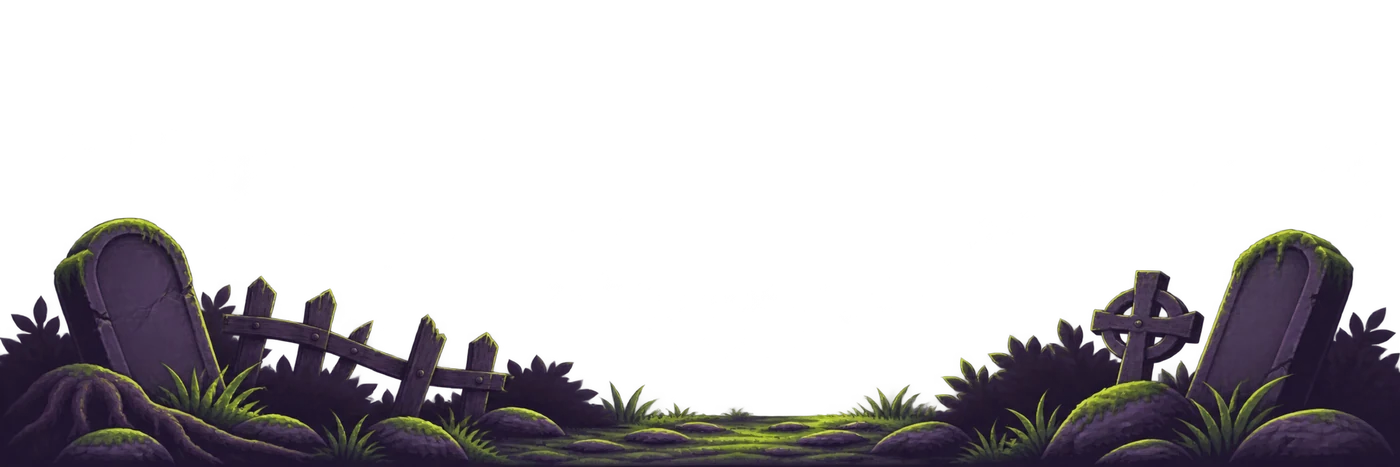
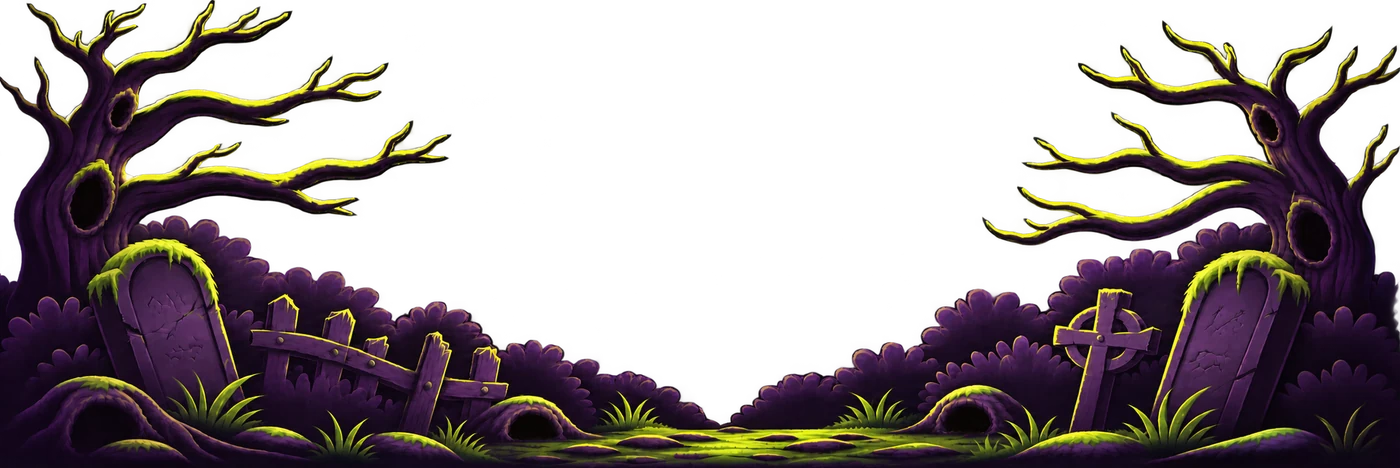
Хэллоуин: новая кайма кладбища, злые глаза в дуплах, кусте и норах, рука у креста, пауки спускаются на паутине в норы, вороны на деревьях, ведьма у луны [release]
Claude-Session: https://claude.ai/code/session_01XuSLBFkwx6ZNfMQekxD9ac

diff --git a/android/app/src/main/java/com/dasein/poryadok/ui/common/HalloweenDecor.kt b/android/app/src/main/java/com/dasein/poryadok/ui/common/HalloweenDecor.kt
@@ -73,6 +73,16 @@ object HalloweenAssets {
     var spiderSide: List<ImageBitmap> = emptyList(); private set
     var spiderTop: List<ImageBitmap> = emptyList(); private set
     var spiderPeek: List<ImageBitmap> = emptyList(); private set
+    /** Злые глаза: [вид][открыты, прикрыты, почти закрыты, закрыты]. */
+    var evil: List<List<ImageBitmap>> = emptyList(); private set
+    /** Ворон: сидит, каркает, летит, взлетает, садится (смотрит вправо, лапы — внизу по центру кадра). */
+    var crowIdle: List<ImageBitmap> = emptyList(); private set
+    var crowCaw: List<ImageBitmap> = emptyList(); private set
+    var crowFly: List<ImageBitmap> = emptyList(); private set
+    var crowUp: List<ImageBitmap> = emptyList(); private set
+    var crowLand: List<ImageBitmap> = emptyList(); private set
+    /** Ведьма на метле: 0–3 полёт, 4–5 машет, 6–7 с котом. */
+    var witch: List<ImageBitmap> = emptyList(); private set
 
     fun load(ctx: android.content.Context) {
         if (ready.value) return
@@ -84,7 +94,11 @@ object HalloweenAssets {
         hand = many("hand", 6); ghost = many("ghost", 6); ghostling = many("ghostling", 4)
         leaves = many("fall_leaf", 6); fallBats = many("fall_bat", 3); stars = many("fall_star", 3)
         caps = many("cap", 8); spiderSide = many("spider_side", 4); spiderTop = many("spider_top", 4); spiderPeek = many("spider_peek", 3)
-        ready.value = near != null && batHang.size == 4 && batFly.size == 4 && eyes.isNotEmpty() && hand.size == 6 && ghost.size == 6
+        evil = (0 until 5).map { k -> (0 until 4).mapNotNull { one("evil_${k}_$it") } }.filter { it.size == 4 }
+        crowIdle = many("crow_idle", 4); crowCaw = many("crow_caw", 4); crowFly = many("crow_fly", 4); crowUp = many("crow_up", 4); crowLand = many("crow_land", 4)
+        witch = many("witch", 8)
+        ready.value = near != null && batHang.size == 4 && batFly.size == 4 && evil.isNotEmpty() && hand.size == 6 && ghost.size == 6 &&
+            spiderTop.size == 4 && spiderSide.size == 4 && spiderPeek.size == 3 && crowFly.size == 4 && crowIdle.size == 4 && crowUp.size == 4 && crowLand.size == 4 && crowCaw.size == 4 && witch.size == 8
     }
 }
 
@@ -109,9 +123,13 @@ private fun DrawScope.fogBand(tex: ImageBitmap?, y: Float, bandH: Float, speed: 
 private class Firefly(val x: Float, val y: Float, val sp: Float, val ph: Float, val gold: Boolean)
 private val FIREFLIES = Random(3110).let { r -> List(14) { Firefly(r.nextFloat(), .25f + r.nextFloat() * .65f, .3f + r.nextFloat() * .5f, r.nextFloat() * 6.28f, it % 4 == 0) } }
 
-/** Где на кайме кусты (глаза снизу) и кроны (глаза сверху), в долях картинки каймы. */
-private val BUSH_EYES = listOf(.155f to .70f, .40f to .80f, .74f to .74f, .965f to .69f)
-private val CROWN_EYES = listOf(.13f to .16f, .89f to .13f)
+/** Где на нижней кайме злые глаза: дупла деревьев, куст справа (центр, доли картинки каймы) и ширина глаз (доли экрана). */
+private val TREE_EYES = listOf(Triple(.089f, .225f, .026f), Triple(.061f, .435f, .032f), Triple(.903f, .267f, .026f), Triple(.935f, .487f, .032f))
+private val BUSH_EYES = listOf(Triple(.952f, .739f, .042f), Triple(.955f, .859f, .042f))
+/** Норы в земле нижней каймы: сюда спускаются пауки, внутри потом горят глаза. */
+private val BURROWS = listOf(.074f to .915f, .381f to .915f, .6875f to .892f)
+/** Ветки деревьев нижней каймы, на которых сидят вороны (верх ветки). */
+private val CROW_PERCHES = listOf(.18f to .214f, .24f to .173f, .27f to .329f, .77f to .338f, .83f to .179f, .86f to .342f)
 
 /** Куда на ветках верхней каймы садятся летучие мыши (низ ветки), в долях картинки. */
 private val PERCHES = listOf(.23f to .14f, .315f to .135f, .215f to .34f, .30f to .32f, .57f to .215f, .645f to .225f, .78f to .315f, .86f to .317f)
@@ -167,6 +185,7 @@ fun DrawScope.halloweenScene(t: Float, dark: Boolean) {
     }
     val as0 = HalloweenAssets
     if (!as0.ready.value) return
+    if (Halloween.witch.value) witchFlight(t, w, h, mc, mr)
     val fogOn = Halloween.fog.value
     val lav = Color(0xFFD8C6F0)
     // Лёгкий туман под плашками посередине экрана.
@@ -175,11 +194,11 @@ fun DrawScope.halloweenScene(t: Float, dark: Boolean) {
     val bh = w / 3f; val by = h - bh
     as0.far?.let { img(it, 0f, by, w, bh, alpha = .95f) }
     if (fogOn) {
-        fogBand(as0.fog1, by + bh * .38f, bh * .5f, 9f, t, lav.copy(alpha = if (dark) .55f else .6f))
-        fogBand(as0.fog2, by + bh * .55f, bh * .35f, 16f, t, LIME.copy(alpha = .22f))
+        fogBand(as0.fog1, by + bh * .4f, bh * .45f, 9f, t, lav.copy(alpha = if (dark) .5f else .55f))
+        fogBand(as0.fog2, by + bh * .55f, bh * .35f, 16f, t, LIME.copy(alpha = .2f))
     }
     as0.near?.let { img(it, 0f, by, w, bh) }
-    // Рука вырывается из земли у могилы, машет и уходит обратно.
+    // Рука вырывается из земли у креста справа, машет и уходит обратно.
     if (Halloween.hand.value) {
         val local = (t + 8f) % 26f
         val f = when {
@@ -189,37 +208,192 @@ fun DrawScope.halloweenScene(t: Float, dark: Boolean) {
             else -> 0
         }
         val hb = as0.hand[f]
-        val hh = bh * .34f; val hw = hh * hb.width / hb.height
-        img(hb, w * .2f - hw / 2f, by + bh * .955f - hh, hw, hh)
+        val hh = bh * .3f; val hw = hh * hb.width / hb.height
+        img(hb, w * .8f - hw / 2f, by + bh * .99f - hh, hw, hh)
     }
-    if (fogOn) fogBand(as0.fog1, by + bh * .78f, bh * .3f, 22f, t, lav.copy(alpha = .22f))
-    // Моргающие красные глаза: в кустах кладбища и в кронах деревьев.
+    // Злые глаза в дуплах и в кусте: каждая пара моргает в своём ритме, иногда гаснет и загорается снова.
     if (Halloween.eyes.value) {
-        BUSH_EYES.forEachIndexed { i, (fx, fy) -> eyesAt(i, t, w * fx, by + bh * fy, w * .085f) }
+        TREE_EYES.forEachIndexed { i, (fx, fy, ew) -> evilEyes(i, t, w * fx, by + bh * fy, w * ew, roam = true) }
+        BUSH_EYES.forEachIndexed { i, (fx, fy, ew) -> evilEyes(i + 4, t, w * fx, by + bh * fy, w * ew, roam = true) }
     }
+    if (Halloween.crows.value) crows(t, w, by, bh)
+    if (fogOn) fogBand(as0.fog1, by + bh * .8f, bh * .3f, 22f, t, lav.copy(alpha = .2f))
     // Ветки сверху, на них летучие мыши.
     val th = w / 3f
     as0.top?.let { img(it, 0f, 0f, w, th) }
-    if (Halloween.eyes.value) CROWN_EYES.forEachIndexed { i, (fx, fy) -> eyesAt(i + 4, t, w * fx, th * fy + w * .03f, w * .07f) }
     if (Halloween.bats.value) bats(t, w, th)
+    // Пауки спускаются с веток на паутине по краю экрана в норы внизу.
+    if (Halloween.webs.value) webSpider(t, w, th, by, bh)
 }
 
-private fun DrawScope.eyesAt(i: Int, t: Float, cx: Float, bottom: Float, ew: Float) {
-    val set = HalloweenAssets.eyes.getOrNull(i % HalloweenAssets.eyes.size) ?: return
-    val vis = ((sin(t * .21f + i * 2.3f) + .35f) / .4f).coerceIn(0f, 1f)
-    if (vis <= 0f) return
-    val p = 3.4f + i * .9f
+/** Пара злых глаз с центром в ([cx], [cy]): моргает (иногда дважды), при [roam] — то гаснет, то загорается. */
+private fun DrawScope.evilEyes(i: Int, t: Float, cx: Float, cy: Float, ew: Float, roam: Boolean, alpha: Float = 1f) {
+    val all = HalloweenAssets.evil
+    if (all.isEmpty()) return
+    val set = all[i % all.size]
+    val vis = alpha * if (roam) ((sin(t * .19f + i * 2.3f) + .3f) / .35f).coerceIn(0f, 1f) else 1f
+    if (vis <= .01f) return
+    val p = 2.6f + (i * 1.37f) % 3.1f
     val ph = (t + i * 1.7f) % p
+    val dbl = (((t + i * 1.7f) / p).toInt() + i) % 3 == 0
+    fun blink(x: Float) = when { x < .06f -> 1; x < .12f -> 2; x < .2f -> 3; x < .26f -> 2; x < .32f -> 1; else -> 0 }
     val frame = when {
-        ph > p - .12f -> 1
-        ph > p - .24f -> 2
-        ph > p - .36f -> 1
+        ph < .32f -> blink(ph)
+        dbl && ph in .45f..0.77f -> blink(ph - .45f)
         else -> 0
     }
     val b = set[frame]
     val eh = ew * b.height / b.width
-    if (frame != 2) glow(EYE_RED, Offset(cx, bottom - eh * .5f), ew * .55f, .32f * vis)
-    img(b, cx - ew / 2f, bottom - eh, ew, eh, alpha = vis)
+    if (frame < 3) glow(EYE_RED, Offset(cx, cy), ew * .6f, .3f * vis * (1f - frame * .25f))
+    img(b, cx - ew / 2f, cy - eh / 2f, ew, eh, alpha = vis)
+}
+
+/** Ворона в стайке: где сидит, куда летит, когда взлетела. */
+private object Crows {
+    const val DUR = 3.2f
+    val at = intArrayOf(0, 3, 5)
+    val to = intArrayOf(-1, -1, -1)
+    val start = FloatArray(3)
+    val next = floatArrayOf(9f, 19f, 29f)
+    val rnd = Random(777)
+    fun step(t: Float) {
+        for (i in at.indices) {
+            if (to[i] >= 0 && (t < start[i] || t - start[i] >= DUR)) { at[i] = to[i]; to[i] = -1; next[i] = t + 9f + rnd.nextFloat() * 14f }
+            if (to[i] < 0 && t >= next[i]) {
+                val busy = at.toSet() + to.filter { it >= 0 }
+                val free = CROW_PERCHES.indices.filter { it !in busy }
+                if (free.isNotEmpty()) { to[i] = free[rnd.nextInt(free.size)]; start[i] = t }
+            }
+            if (t + 80f < next[i]) next[i] = t + 6f
+        }
+    }
+}
+
+/** Вороны на ветках деревьев нижней каймы: сидят, чистят перья, каркают; иногда перелетают на другую ветку или дерево. */
+private fun DrawScope.crows(t: Float, w: Float, by: Float, bh: Float) {
+    val a = HalloweenAssets
+    Crows.step(t)
+    val cw = w * .085f
+    fun perch(i: Int) = Offset(CROW_PERCHES[i].first * w, by + CROW_PERCHES[i].second * bh)
+    fun drawCrow(f: ImageBitmap, feet: Offset, faceLeft: Boolean) {
+        val x = feet.x - cw * .473f; val y = feet.y - cw * .925f
+        if (faceLeft) scale(-1f, 1f, Offset(feet.x, feet.y)) { img(f, x, y, cw, cw) } else img(f, x, y, cw, cw)
+    }
+    for (i in Crows.at.indices) {
+        val from = perch(Crows.at[i])
+        val dest = Crows.to[i]
+        if (dest < 0) {
+            // На левом дереве смотрит вправо, на правом — влево (к центру экрана).
+            val faceLeft = from.x > w / 2f
+            val local = (t + i * 4.3f) % 11f
+            val f = when {
+                local < 1.4f -> a.crowCaw[intArrayOf(0, 1, 2, 1, 2, 0)[(local / .24f).toInt().coerceIn(0, 5)]]
+                local in 5f..6.2f -> a.crowIdle[2]
+                local in 8f..8.8f -> a.crowIdle[1]
+                local in 9.6f..10f -> a.crowCaw[3]
+                else -> a.crowIdle[0]
+            }
+            drawCrow(f, from, faceLeft)
+            continue
+        }
+        val to = perch(dest)
+        val u = ((t - Crows.start[i]) / Crows.DUR).coerceIn(0f, 1f)
+        val left = to.x < from.x
+        when {
+            u < .14f -> drawCrow(a.crowUp[(u / .14f * 4).toInt().coerceIn(0, 3)], from, left)
+            u > .84f -> drawCrow(a.crowLand[((u - .84f) / .16f * 4).toInt().coerceIn(0, 3)], to, left)
+            else -> {
+                val s = ((u - .14f) / .7f).let { it * it * (3 - 2 * it) }
+                val c = Offset((from.x + to.x) / 2f, minOf(from.y, to.y) - bh * .35f)
+                val pos = Offset(
+                    (1 - s) * (1 - s) * from.x + 2 * (1 - s) * s * c.x + s * s * to.x,
+                    (1 - s) * (1 - s) * from.y + 2 * (1 - s) * s * c.y + s * s * to.y,
+                )
+                drawCrow(a.crowFly[(t * 9f).toInt() % 4], pos, left)
+            }
+        }
+    }
+}
+
+/**
+ * Паук на паутине: появляется на ветке верхней каймы (то слева, то справа), спускается по краю экрана до земли,
+ * ползёт в нору; в норе загораются красные глаза; потом паук выбирается и уползает за край экрана. Повторяется.
+ */
+private fun DrawScope.webSpider(t: Float, w: Float, th: Float, by: Float, bh: Float) {
+    val a = HalloweenAssets
+    val cycle = 40f
+    val n = ((t + 6f) / cycle).toInt()
+    val lt = (t + 6f) % cycle
+    val leftSide = n % 2 == 0
+    val rnd = Random(n * 31 + 7)
+    val bi = if (leftSide) (if (rnd.nextBoolean()) 0 else 1) else (if (rnd.nextBoolean()) 2 else 1)
+    val burrow = Offset(BURROWS[bi].first * w, by + BURROWS[bi].second * bh)
+    val sx = (if (leftSide) .06f else .95f) * w
+    val startY = th * .29f
+    val groundY = burrow.y - bh * .02f
+    val speed = w * .11f
+    val tw = 18.dp.toPx(); val tH = tw * a.spiderTop[0].height / a.spiderTop[0].width
+    val sw = 20.dp.toPx(); val sH = sw * a.spiderSide[0].height / a.spiderSide[0].width
+    val pw = 20.dp.toPx(); val pH = pw * a.spiderPeek[0].height / a.spiderPeek[0].width
+    val frame = (t * 9f).toInt() % 4
+    val tAppear = .8f; val tDesc = 10f
+    val walk1 = (kotlin.math.abs(burrow.x - sx) / speed).coerceAtLeast(.6f)
+    val tIn = .7f; val tStay = 7f; val tOut = .7f
+    val edgeX = if (burrow.x < w / 2f) -w * .06f else w * 1.06f
+    val walk2 = kotlin.math.abs(edgeX - burrow.x) / speed
+    var k = lt
+    fun side(x: Float, y: Float, toLeft: Boolean) {
+        val f = a.spiderSide[frame]
+        if (toLeft) scale(-1f, 1f, Offset(x, y)) { img(f, x - sw / 2f, y - sH, sw, sH) } else img(f, x - sw / 2f, y - sH, sw, sH)
+    }
+    fun peek(u: Float) { val f = a.spiderPeek[(u * 3).toInt().coerceIn(0, 2)]; img(f, burrow.x - pw / 2f, burrow.y + pH * .25f - pH, pw, pH) }
+    // Спуск по паутине (голова вниз).
+    if (k < tAppear + tDesc) {
+        val sway = sin(t * 1.3f) * 3f * density
+        val y = if (k < tAppear) startY else startY + (groundY - startY - tH / 2f) * ((k - tAppear) / tDesc).let { it * it * (3 - 2 * it) }
+        val x = sx + sway * ((y - startY) / (groundY - startY)).coerceIn(0f, 1f)
+        drawLine(LILAC.copy(alpha = .55f), Offset(sx, startY - 2f), Offset(x, y), 1f * density)
+        val sc = if (k < tAppear) k / tAppear else 1f
+        val f = a.spiderTop[if (k < tAppear) 0 else frame]
+        scale(sc, sc, Offset(x, y)) { rotate(180f, Offset(x, y + tH / 2f)) { img(f, x - tw / 2f, y, tw, tH) } }
+        return
+    }
+    k -= tAppear + tDesc
+    // Ползёт по земле к норе.
+    if (k < walk1) { side(sx + (burrow.x - sx) * (k / walk1), groundY, burrow.x < sx); return }
+    k -= walk1
+    if (k < tIn) { peek(1f - k / tIn); return }
+    k -= tIn
+    // В норе — горящие глаза.
+    if (k < tStay) { evilEyes(bi + 7, t, burrow.x, burrow.y - bh * .015f, w * .04f, roam = false, alpha = (k / .5f).coerceAtMost(1f)); return }
+    k -= tStay
+    if (k < tOut) { peek(k / tOut); return }
+    k -= tOut
+    // Уползает за край экрана.
+    if (k < walk2) side(burrow.x + (edgeX - burrow.x) * (k / walk2), groundY, edgeX < burrow.x)
+}
+
+/** Ведьма на метле медленно пролетает мимо луны под плашками — раз в ~75 с, то вправо, то влево. */
+private fun DrawScope.witchFlight(t: Float, w: Float, h: Float, moon: Offset, mr: Float) {
+    val a = HalloweenAssets
+    if (a.witch.size < 8) return
+    val period = 75f; val dur = 11f
+    val n = ((t + 25f) / period).toInt()
+    val local = (t + 25f) % period
+    if (local > dur) return
+    val ww = w * .3f; val wh = ww * a.witch[0].height / a.witch[0].width
+    val u = local / dur
+    val toRight = n % 2 == 0
+    val xc = if (toRight) -ww + u * (w + 2 * ww) else w + ww - u * (w + 2 * ww)
+    val yc = moon.y + mr * .15f - sin(u * PI.toFloat()) * mr * .5f + sin(t * 2f) * mr * .06f
+    val nearMoon = kotlin.math.abs(xc - moon.x) < mr * 1.6f
+    val f = when {
+        nearMoon -> a.witch[4 + ((t * 3f).toInt() % 2)]
+        n % 3 == 1 -> a.witch[6 + ((t * 2f).toInt() % 2)]
+        else -> a.witch[(t * 8f).toInt() % 4]
+    }
+    val x = xc - ww / 2f; val y = yc - wh / 2f
+    if (toRight) img(f, x, y, ww, wh) else scale(-1f, 1f, Offset(xc, yc)) { img(f, x, y, ww, wh) }
 }
 
 private fun DrawScope.bats(t: Float, w: Float, th: Float) {

diff --git a/android/app/src/main/java/com/dasein/poryadok/ui/more/SeasonScreens.kt b/android/app/src/main/java/com/dasein/poryadok/ui/more/SeasonScreens.kt
@@ -147,8 +147,11 @@ fun HalloweenSettingsScreen(nav: NavHostController) {
 
             SectionTitle("Украшения")
             SwitchRow("Туман", "Плывёт между дальним и ближним планом кладбища и слегка — под плашками.", h.fog.value) { h.set(ctx, "fog", it) }
-            SwitchRow("Красные глаза", "Моргают в кустах кладбища и в кронах деревьев, иногда исчезают и появляются снова.", h.eyes.value) { h.set(ctx, "eyes", it) }
-            SwitchRow("Рука из могилы", "Время от времени вырывается из земли, машет и уходит обратно.", h.hand.value) { h.set(ctx, "hand", it) }
+            SwitchRow("Злые глаза", "Горят в дуплах деревьев и в кусте на кладбище, моргают каждые в своём ритме (иногда дважды), гаснут и загораются снова.", h.eyes.value) { h.set(ctx, "eyes", it) }
+            SwitchRow("Рука из могилы", "Время от времени вырывается из земли у креста, машет и уходит обратно.", h.hand.value) { h.set(ctx, "hand", it) }
+            SwitchRow("Пауки на паутине", "С веток сверху по краю экрана спускается паук, заползает в нору на кладбище — там загораются глаза, — потом уползает за край экрана. Снова и снова, то слева, то справа.", h.webs.value) { h.set(ctx, "webs", it) }
+            SwitchRow("Вороны", "Сидят на деревьях кладбища, чистят перья и каркают, иногда перелетают с ветки на ветку и с дерева на дерево.", h.crows.value) { h.set(ctx, "crows", it) }
+            SwitchRow("Ведьма на метле", "Раз в минуту с небольшим пролетает силуэтом на фоне луны под плашками, у луны машет рукой.", h.witch.value) { h.set(ctx, "witch", it) }
             SwitchRow("Летучие мыши", "Висят на ветках сверху, иногда взлетают и пересаживаются на другую ветку.", h.bats.value) { h.set(ctx, "bats", it) }
             SwitchRow(
                 "Пауки на плашках",

diff --git a/android/app/src/main/java/com/dasein/poryadok/ui/theme/Halloween.kt b/android/app/src/main/java/com/dasein/poryadok/ui/theme/Halloween.kt
@@ -49,6 +49,9 @@ object Halloween {
     val ghost = mutableStateOf(true)
     val spiders = mutableStateOf(true)
     val leaves = mutableStateOf(true)
+    val crows = mutableStateOf(true)
+    val webs = mutableStateOf(true)
+    val witch = mutableStateOf(true)
     val bgStyle = mutableIntStateOf(0)
     val cardStyle = mutableIntStateOf(0)
 
@@ -60,7 +63,7 @@ object Halloween {
 
     private var loaded = false
     private fun sp(ctx: Context) = ctx.getSharedPreferences("ui_state", Context.MODE_PRIVATE)
-    private val flags get() = listOf("auto" to auto, "fog" to fog, "bats" to bats, "eyes" to eyes, "hand" to hand, "ghost" to ghost, "spiders" to spiders, "leaves" to leaves)
+    private val flags get() = listOf("auto" to auto, "fog" to fog, "bats" to bats, "eyes" to eyes, "hand" to hand, "ghost" to ghost, "spiders" to spiders, "leaves" to leaves, "crows" to crows, "webs" to webs, "witch" to witch)
 
     fun load(ctx: Context) {
         if (loaded) return
